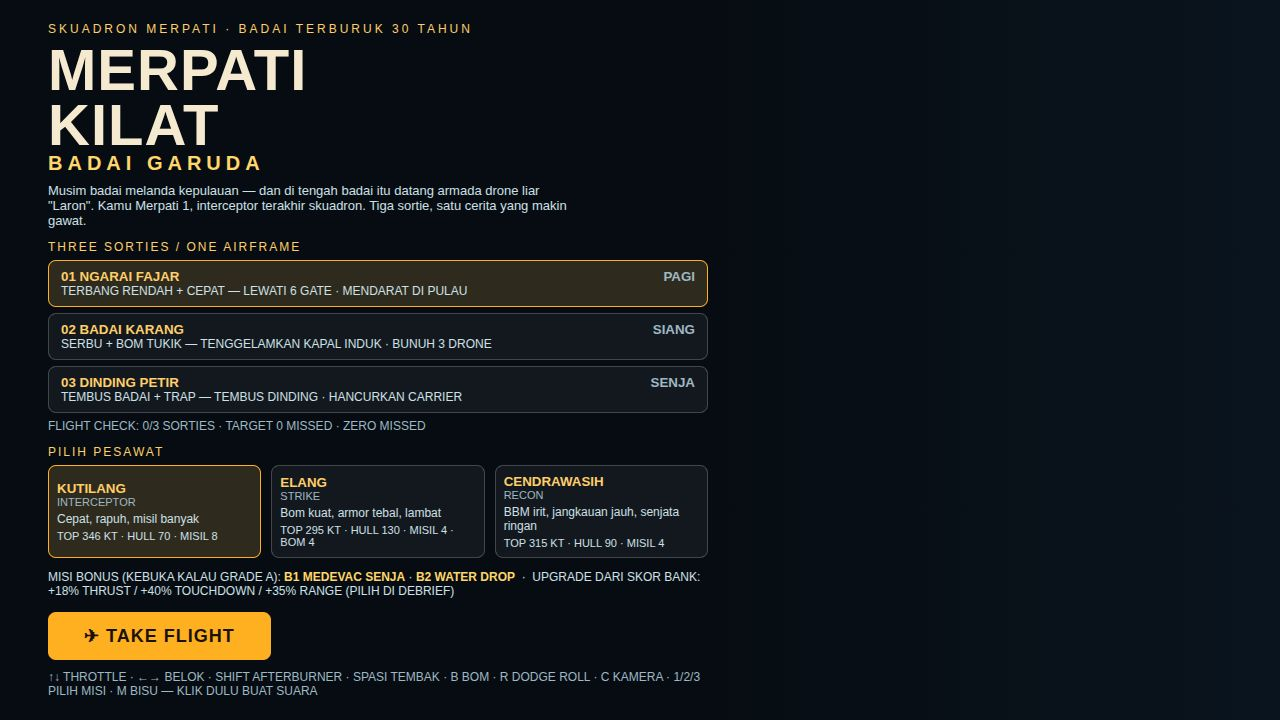
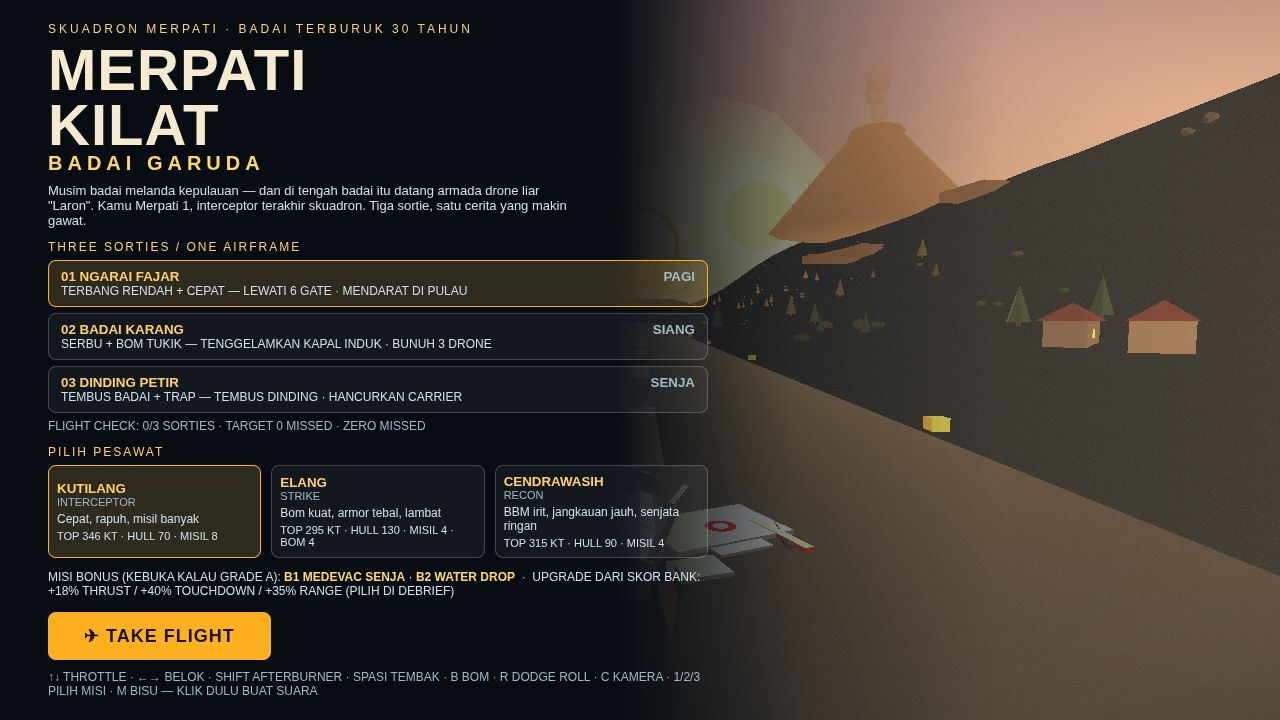
Revision round 4 q1: title berpesawat — gradien tembus + hero jet terlihat, shots.json akurat

diff --git a/game/titlescreen.js b/game/titlescreen.js
@@ -11,9 +11,10 @@ export class TitleScreen {
     this.el.id = 'title-screen';
     this.el.style.cssText = [
       'position:fixed', 'inset:0', 'display:flex', 'align-items:flex-start',
-      // MICRO-FIX item 1: gradien OPAQUE — HUD di belakang tidak boleh tembus.
-      // Dulu rgba(…,0.88/0.55/0.15): top bar + chip gate + radar HUD tembus.
-      'background:linear-gradient(90deg, #060c12 0%, #060c12 55%, #0a141e 100%)',
+      // Q1 ronde 2 (see-fix): jet hero di x~700–780 masih redup di balik
+      // pita 0,72/0,35 — turunkan lagi pita tengah supaya jet di landasan
+      // terbaca, kiri tetap opaque (teks tidak kena).
+      'background:linear-gradient(90deg, #060c12 0%, #060c12 48%, rgba(6,12,18,0.50) 62%, rgba(6,12,18,0.18) 78%, rgba(6,12,18,0.04) 100%)',
       'overflow-y:auto',
       'z-index:20', 'font-family:"Segoe UI",Arial,sans-serif', 'color:#f5ead0',
     ].join(';');
